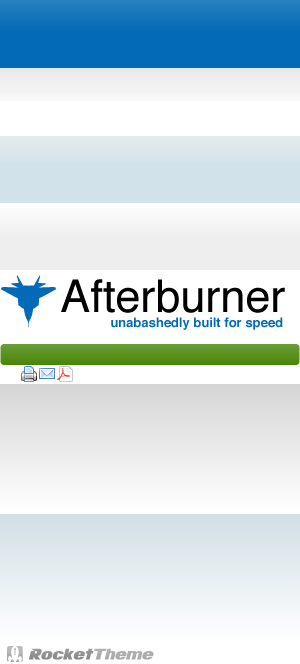
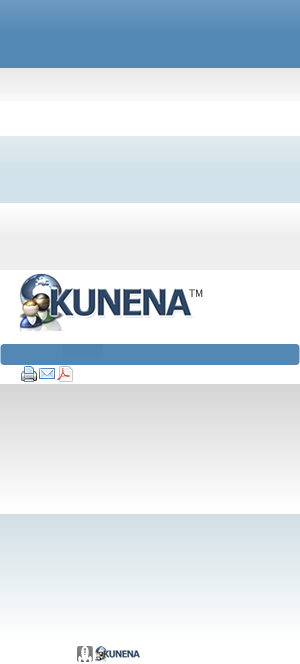
^ [#19707] Commit latest template changes
git-svn-id: file:///Users/oratzes/svn/kunena@2906 daf2aa89-cb5b-0410-b8ee-fe93ebc9b27d

Changed region(s): [[0.0, 0.3916, 1.0, 0.5723], [0.0, 0.0, 1.0, 0.1205], [0.0, 0.9639, 0.51, 1.0]]

diff --git a/trunk/kunena.com/kunena_j15/css/kunena.css b/trunk/kunena.com/kunena_j15/css/kunena.css
@@ -59,8 +59,8 @@ p {margin-top:10px;margin-bottom:10px;}
 #nav ul {margin:0 0 0 15px;}
 #nav li {list-style:none;float:left;padding-left:3px;height:34px;position:relative;}
 #nav li a {display:block;padding:0 10px;line-height:30px;color:#fff;font-weight:bold;}
-#nav li.active a {background:#fff;color:#34647F;}
-#nav li a:hover, #nav li:hover a, #nav li.sfHover a {background:#34647F;color:#fff;text-decoration:none;}
+#nav li.active a {background:#5388B4;color:#fff;}
+#nav li a:hover, #nav li:hover a, #nav li.sfHover a {background:#5388B4;color:#fff;text-decoration:none;}
 #nav li ul {position:absolute;width:170px;left:-999em;margin-left:-1px;border:1px solid #295770;border-top:0;}
 #nav li ul ul {margin:-31px 0 0 170px;}
 #nav li:hover ul ul, #nav li:hover ul ul ul, #nav li:hover ul ul ul ul, #nav li.sfHover ul ul, #nav li.sfHover ul ul ul, #nav li.sfHover ul ul ul ul {left:-999em;}
@@ -134,6 +134,7 @@ span.attention {display:block;margin:15px 0;padding:8px 10px 8px 10px;background
 /* Footer */
 #footer {background:#f7f7f7;border-top:1px solid #fff;}
 .footer-pad {padding:10px 15px;overflow:hidden;}
-#logo2 {width:165px;height:20px;background:url(../images/kunena.png) 5px -646px no-repeat;display:block;float:right;margin-left:15px;margin-top:15px;}
+#logo2 {width:165px;height:20px;background:url(../images/kunena.png) 5px -76px no-repeat;display:block;float:right;margin-left:15px;margin-top:15px;width:18px;}
+#logo3 {width:165px;height:20px;background:url(../images/kunena.png) 5px -646px no-repeat;display:block;float:right;margin-left:15px;margin-top:15px;width:72px;}
 #footer ul {margin:0;}
 #footer li {list-style:none;float:left;padding-right:20px;font-weight:bold;}

diff --git a/trunk/kunena.com/kunena_j15/css/styles.css b/trunk/kunena.com/kunena_j15/css/styles.css
@@ -134,5 +134,6 @@ span.attention {display: block;margin: 15px 0;padding: 8px 10px 8px 10px;backgro
 #footer {background: #f7f7f7;border-top: 1px solid #fff;}
 .footer-pad {padding: 10px 15px;overflow: hidden;}
 #logo2 {width: 165px;height: 40px;background: #fff url(../images/sprite.png) 5px -636px no-repeat;display: block;float: right;margin-left: 15px;margin-top: 5px;}
+#logo3 {width: 165px;height: 40px;background: #fff url(../images/sprite.png) 5px -636px no-repeat;display: block;float: right;margin-left: 15px;margin-top: 5px;}
 #footer ul {margin: 0;}
 #footer li {list-style: none;float: left;padding-right: 20px;font-weight: bold;}

diff --git a/trunk/kunena.com/kunena_j15/index.php b/trunk/kunena.com/kunena_j15/index.php
@@ -19,6 +19,19 @@ $mootools_enabled       = ($this->params->get("mootools_enabled", 1)  == 0)?"fal
 $caption_enabled        = ($this->params->get("caption_enabled", 1)  == 0)?"false":"true";
 $rockettheme_logo       = ($this->params->get("rocketthemeLogo", 1)  == 0)?"false":"true";
 
+// Move javascript to bottom of body tag
+// First we need to get all scripts
+$kHeaderScripts = array();
+$kHeaderScript = array();
+//$kHeader = $this->getHeadData();
+//$kHeaderScripts = array_merge($kHeader['scripts']);
+//$kHeaderScript = array_merge($kHeader['script']);
+// Now that we have a copy of the scripts, clear them out in the original header
+//$kHeader['scripts'] = array();
+//$kHeader['script'] = array();
+//$this->setHeadData($kHeader);
+
+
 ?>
 <!DOCTYPE html PUBLIC "-//W3C//DTD XHTML 1.0 Transitional//EN" "http://www.w3.org/TR/xhtml1/DTD/xhtml1-transitional.dtd">
 <html xmlns="http://www.w3.org/1999/xhtml" xml:lang="<?php echo $this->language; ?>" lang="<?php echo $this->language; ?>" >
@@ -121,10 +134,17 @@ require(YOURBASEPATH . DS . "rt_utils.php");
 		<?php endif; ?>
 		<?php if ($rockettheme_logo=="true") : ?>
 		<a href="http://www.rockettheme.com"><span id="logo2"></span></a>
+		<a href="http://www.kunena.com"><span id="logo3"></span></a>
 		<?php endif; ?>
 		<jdoc:include type="modules" name="footer" style="afterburner" />
 		<jdoc:include type="modules" name="debug" style="none" />
 	</div>
 </div>
+<?php
+// Add all scripts that we removed from the header
+foreach ($kHeaderScripts as $kScript => $kScriptType) {
+	echo '<script type="'.$kScriptType.'" src="'.$kScript.'"></script>';
+}
+?>
 </body>
 </html>

diff --git a/trunk/kunena.com/kunena_j15/CHANGELOG.php b/trunk/kunena.com/kunena_j15/CHANGELOG.php
@@ -37,5 +37,6 @@ Kunena Site Template based on Rocket Theme Afterburner
 13-Feb-2010 fxstein
 + [#19707] New kunena style
 ^ [#19707] Rename language file
+^ [#19707] Updated logos and images
 
 -->
